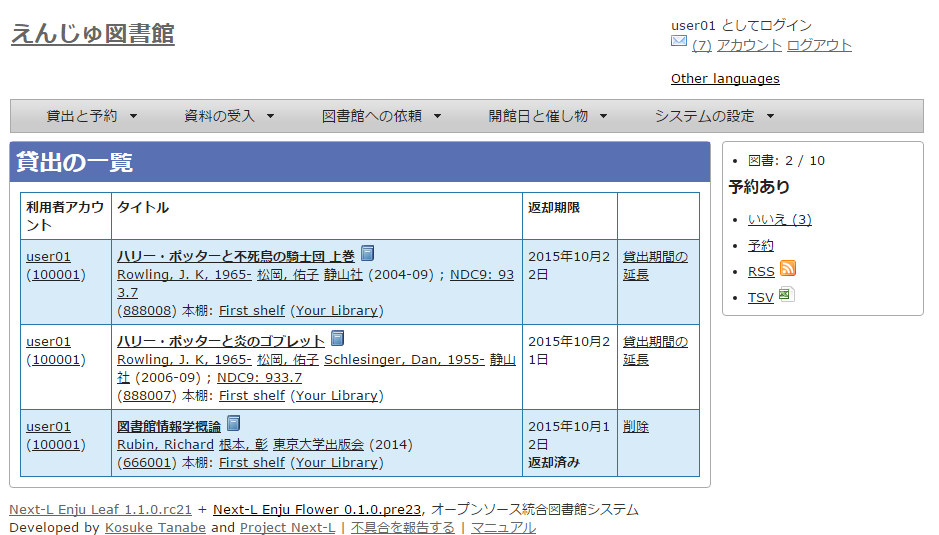
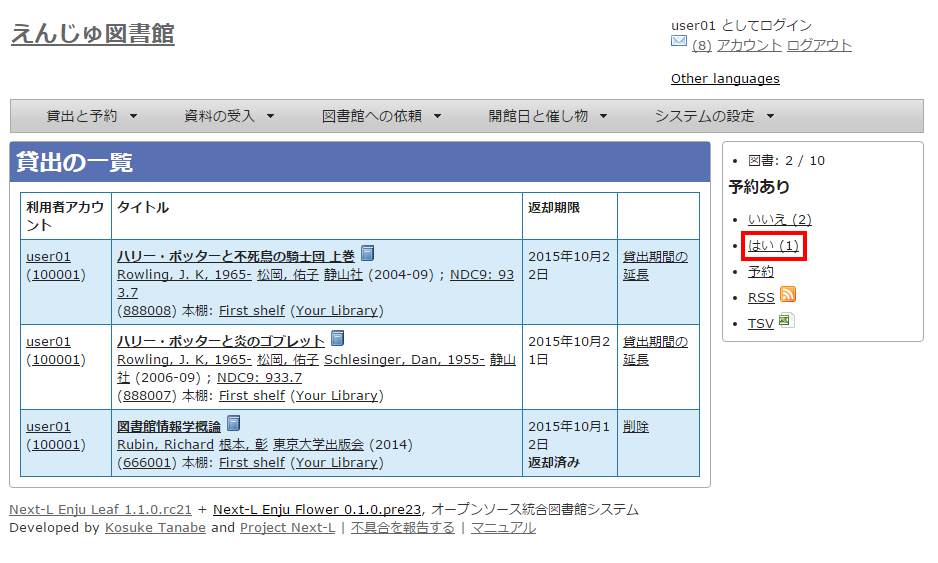
利用者マニュアルの貸出履歴の表示についてスクリーンショットの追加と 差し替え。文章も少し追加。

Changed region(s): [[0.0, 0.0299, 0.9893, 1.0], [0.0, 0.0299, 0.1855, 0.0897], [0.9584, 0.5682, 0.9893, 0.5981]]

diff --git a/enju_user_5.md b/enju_user_5.md
@@ -29,11 +29,44 @@ group: enju_user
 
 ![貸出履歴](assets/images/image_user_checkouts.png)
 
-#### 2. 貸出履歴が表示されます
+#### 2. 貸出履歴が表示されます。右メニューの「予約あり」の下の「あり」をクリックします。
 
 ![貸出履歴](assets/images/image_user_checkouts_003.png)
 
+<div class="alert alert-info memo" markdown="1">
+【Memo】
+
+* この表と同内容を、[アカウント]リンクをたどった先の画面でも見れます。
+* 右メニューにある「図書 : 2/ 10」は、「借りている本の数 / 借りられる上限数」を表しています。
+* 右メニューの[予約]リンクをたどると、予約の一覧画面へ遷移します。
+
+</div>
+
+#### 3. 予約がかかっている資料だけが表示されます。右メニューの[この絞り込みを解除する]をクリックします。
+
+![絞り込みを解除する](assets/images/image_user_checkouts_005.png)
+
+#### 4. 絞り込みが解除され、すべての貸出履歴が表示されます。
+
+![貸出履歴](assets/images/image_user_checkouts_007.png)
+
+
 5-2 貸出延長をする {#section5-2}
+--------------------------------
+
+（準備中です）
+
+5-3 返却済みの貸出の記録を削除する {#section5-3}
+--------------------------------
+
+（準備中です）
+
+5-4 貸出の一覧のTSVを表示する {#section5-4}
+--------------------------------
+
+（準備中です）
+
+5-5 貸出の一覧のRSSを表示する {#section5-5}
 --------------------------------
 
 （準備中です）
